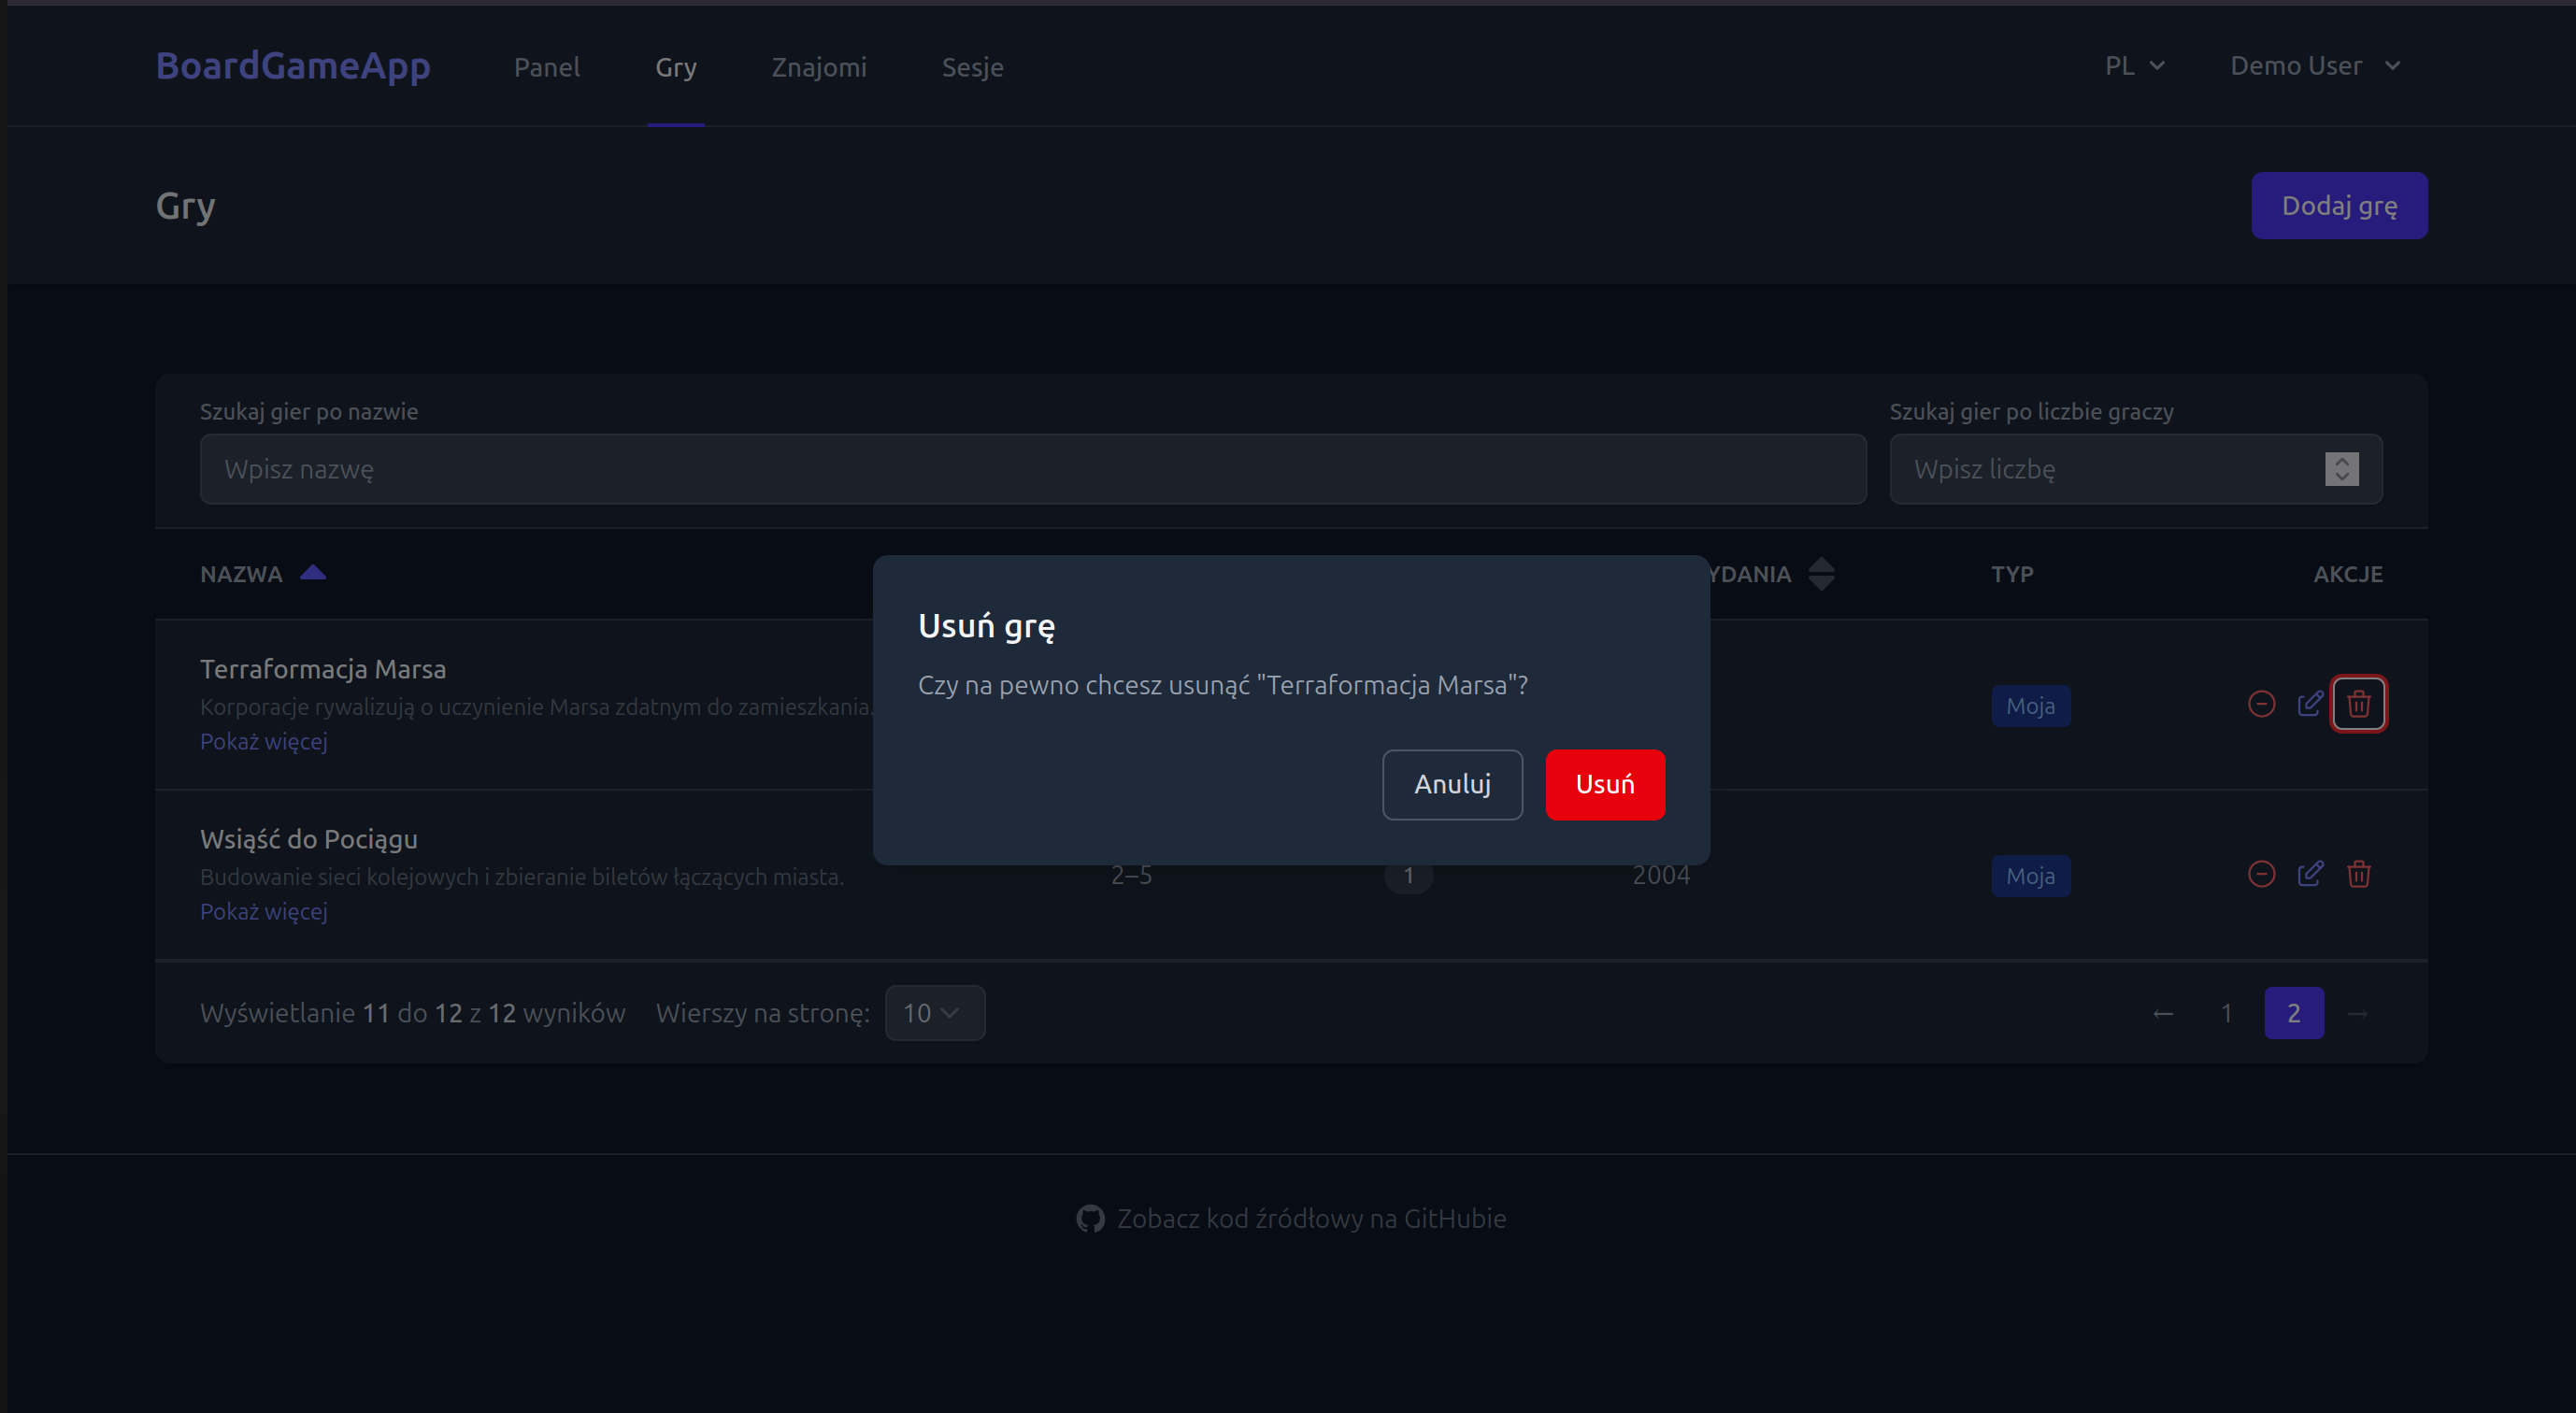
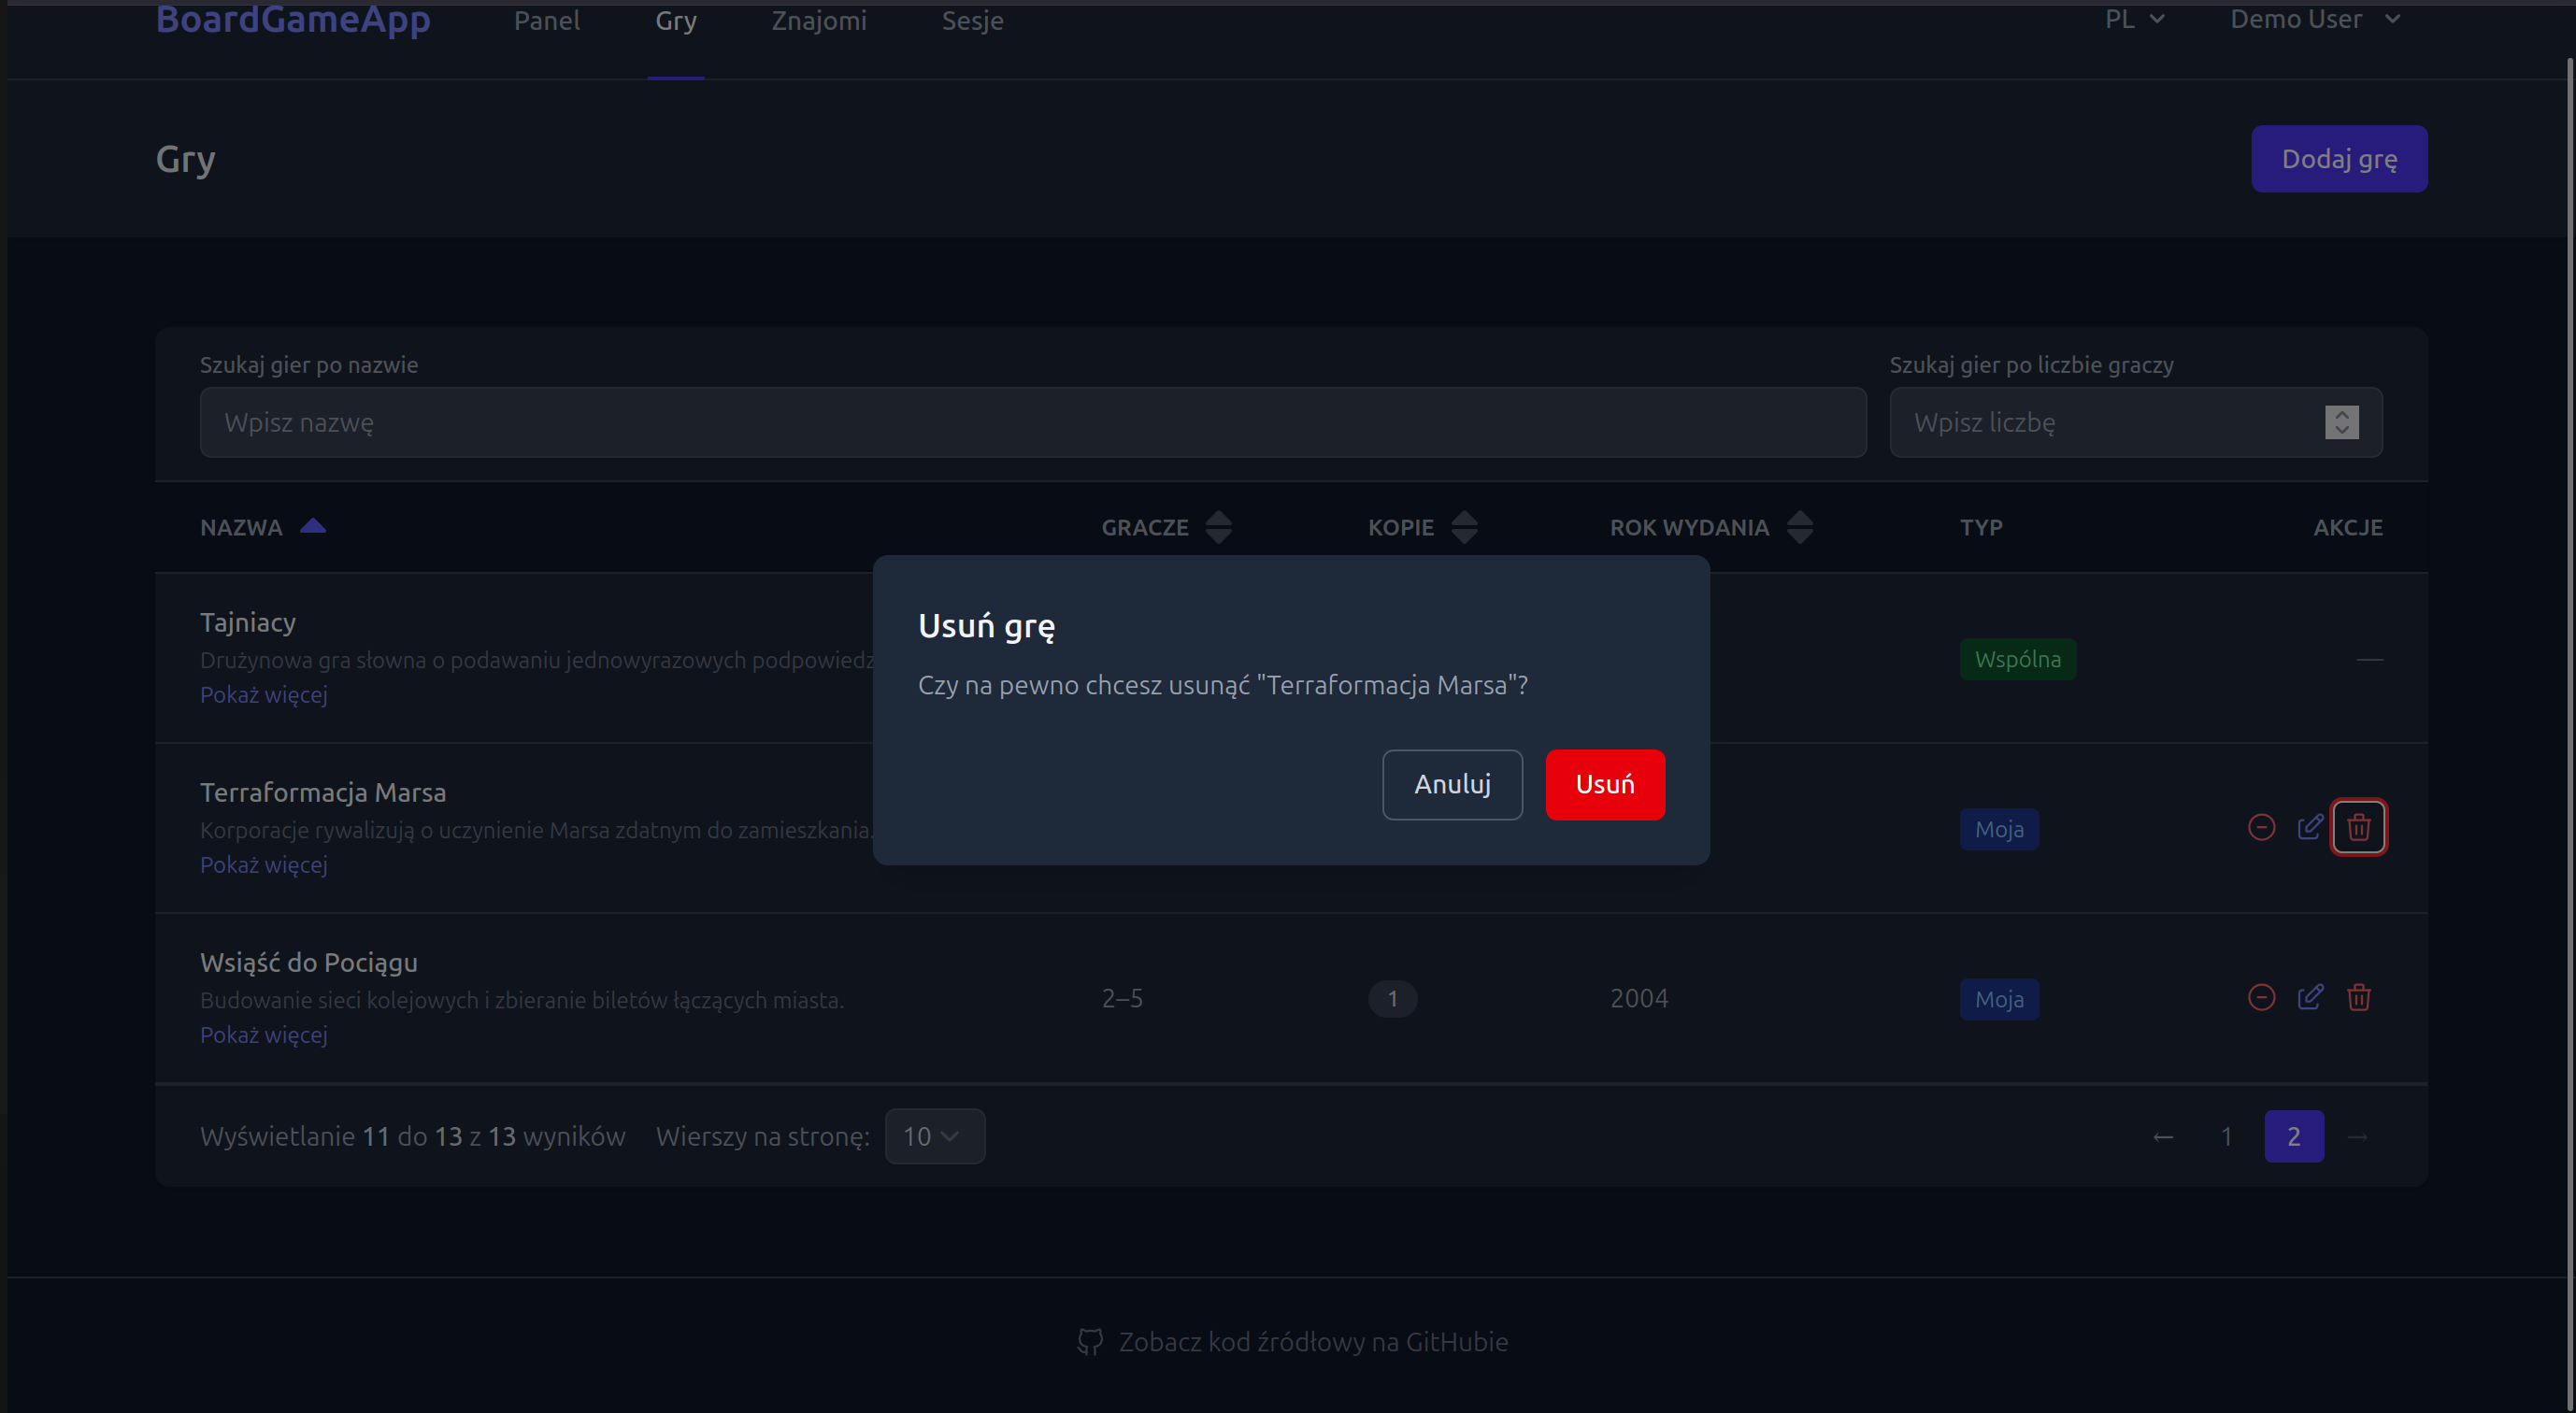
-Added BGG throttle, forbidden actions now pop up

diff --git a/resources/js/Layouts/AuthenticatedLayout.vue b/resources/js/Layouts/AuthenticatedLayout.vue
@@ -1,18 +1,35 @@
 <script setup>
-import { ref } from 'vue'
+import { ref, watch } from 'vue'
 import ApplicationLogo from '@/Components/ApplicationLogo.vue'
 import Dropdown from '@/Components/Dropdown.vue'
 import DropdownLink from '@/Components/DropdownLink.vue'
 import LanguageSwitcher from '@/Components/LanguageSwitcher.vue'
 import NavLink from '@/Components/NavLink.vue'
 import ResponsiveNavLink from '@/Components/ResponsiveNavLink.vue'
-import { Link } from '@inertiajs/vue3'
+import { Link, usePage } from '@inertiajs/vue3'
 import { useTranslate } from '@/composables/useTranslate'
+import { useConfirmDialog } from '@/composables/useConfirmDialog'
 import ConfirmDialog from '@/Components/ConfirmDialog.vue'
 import SiteFooter from '@/Components/SiteFooter.vue'
 
 const { t } = useTranslate()
 const showingNavigationDropdown = ref(false)
+
+const page = usePage()
+const { alert } = useConfirmDialog()
+
+watch(
+  () => page.props.errors?.demo,
+  (message) => {
+    if (message) {
+      alert({
+        title: t('common.demoRestrictedTitle'),
+        message,
+        confirmLabel: t('common.ok'),
+      })
+    }
+  },
+)
 </script>
 
 <template>

diff --git a/resources/js/composables/useConfirmDialog.ts b/resources/js/composables/useConfirmDialog.ts
@@ -4,7 +4,8 @@ export interface ConfirmDialogOptions {
   title: string
   message: string
   confirmLabel: string
-  cancelLabel: string
+  /** Omit to render an alert-style dialog with only a confirm/OK button. */
+  cancelLabel?: string
   variant?: 'danger' | 'neutral'
 }
 
@@ -21,12 +22,20 @@ let resolveFn: ((value: boolean) => void) | null = null
 
 export function useConfirmDialog() {
   function confirm(opts: ConfirmDialogOptions): Promise<boolean> {
-    options.value = { variant: 'neutral', ...opts }
+    options.value = { variant: 'neutral', cancelLabel: 'Cancel', ...opts }
     isOpen.value = true
 
     return new Promise<boolean>((resolve) => {
       resolveFn = resolve
     })
+  }
+
+  /** Alert-style dialog: single confirm/OK button, no cancel option. */
+  function alert({
+    confirmLabel = 'OK',
+    ...opts
+  }: Omit<ConfirmDialogOptions, 'cancelLabel' | 'confirmLabel'> & { confirmLabel?: string }): Promise<void> {
+    return confirm({ ...opts, confirmLabel, cancelLabel: undefined }).then(() => undefined)
   }
 
   function onConfirm(): void {
@@ -41,5 +50,5 @@ export function useConfirmDialog() {
     resolveFn = null
   }
 
-  return { isOpen, options, confirm, onConfirm, onCancel }
+  return { isOpen, options, confirm, alert, onConfirm, onCancel }
 }

diff --git a/eslint.config.js b/eslint.config.js
@@ -3,6 +3,6 @@ import blumilkTypescript from '@blumilksoftware/eslint-config/typescript-config.
 export default [
   ...blumilkTypescript,
   {
-    ignores: ['resources/js/ziggy.js', 'resources/js/Types/ziggy.d.ts'],
+    ignores: ['resources/js/Types/ziggy.d.ts', 'resources/js/Types/ziggy-routes.d.ts'],
   },
 ]

diff --git a/resources/js/ziggy.ts b/resources/js/ziggy.ts
@@ -1,4 +1,4 @@
-import { ZiggyVue } from '../../vendor/tightenco/ziggy'
+import type { ZiggyVue } from '../../vendor/tightenco/ziggy'
 
 type ZiggyConfig = NonNullable<Parameters<typeof ZiggyVue.install>[1]>
 

diff --git a/resources/js/Components/ConfirmDialog.vue b/resources/js/Components/ConfirmDialog.vue
@@ -46,6 +46,7 @@ const { isOpen, options, onConfirm, onCancel } = useConfirmDialog()
 
             <div class="mt-6 flex flex-col-reverse gap-3 sm:flex-row sm:justify-end">
               <button
+                v-if="options.cancelLabel"
                 type="button"
                 class="cursor-pointer rounded-md border border-gray-300 px-4 py-2 text-sm font-medium text-gray-700 transition-colors hover:bg-gray-50 focus:outline-none focus:ring-2 focus:ring-gray-400 focus:ring-offset-1 dark:border-gray-600 dark:text-gray-300 dark:hover:bg-gray-700"
                 @click="onCancel"

diff --git a/app/Services/BoardGameGeekService.php b/app/Services/BoardGameGeekService.php
@@ -7,6 +7,7 @@ namespace App\Services;
 use App\Models\Game;
 use Illuminate\Http\Client\ConnectionException;
 use Illuminate\Http\Client\RequestException;
+use Illuminate\Support\Facades\Cache;
 use Illuminate\Support\Facades\Http;
 use Illuminate\Support\Facades\Log;
 use InvalidArgumentException;
@@ -52,30 +53,34 @@ class BoardGameGeekService
 
     private function fetchGameData(int $bggId): array
     {
-        try {
-            $response = Http::withToken($this->token)
-                ->timeout(15)
-                ->get("{$this->baseUrl}/thing", [
-                    "id" => $bggId,
-                    "type" => "boardgame",
+        // Game metadata on BGG almost never changes, so cache it to avoid
+        // hammering their API with repeated lookups of the same game.
+        return Cache::remember("bgg-game-{$bggId}", now()->addDay(), function () use ($bggId): array {
+            try {
+                $response = Http::withToken($this->token)
+                    ->timeout(15)
+                    ->get("{$this->baseUrl}/thing", [
+                        "id" => $bggId,
+                        "type" => "boardgame",
+                    ]);
+
+                $response->throw();
+            } catch (ConnectionException $exception) {
+                Log::error("BGG API connection failed", ["bgg_id" => $bggId, "error" => $exception->getMessage()]);
+
+                throw new RuntimeException("Could not connect to BoardGameGeek API. Please try again later.");
+            } catch (RequestException $exception) {
+                Log::error("BGG API request failed", [
+                    "bgg_id" => $bggId,
+                    "status" => $exception->response->status(),
+                    "body" => $exception->response->body(),
                 ]);
 
-            $response->throw();
-        } catch (ConnectionException $exception) {
-            Log::error("BGG API connection failed", ["bgg_id" => $bggId, "error" => $exception->getMessage()]);
+                throw new RuntimeException("BoardGameGeek API returned an error for game ID {$bggId}.");
+            }
 
-            throw new RuntimeException("Could not connect to BoardGameGeek API. Please try again later.");
-        } catch (RequestException $exception) {
-            Log::error("BGG API request failed", [
-                "bgg_id" => $bggId,
-                "status" => $exception->response->status(),
-                "body" => $exception->response->body(),
-            ]);
-
-            throw new RuntimeException("BoardGameGeek API returned an error for game ID {$bggId}.");
-        }
-
-        return $this->parseXmlResponse($response->body(), $bggId);
+            return $this->parseXmlResponse($response->body(), $bggId);
+        });
     }
 
     private function parseXmlResponse(string $xmlBody, int $bggId): array

diff --git a/app/Http/Controllers/ProfileController.php b/app/Http/Controllers/ProfileController.php
@@ -28,17 +28,23 @@ class ProfileController extends Controller
     public function update(ProfileUpdateRequest $request, UpdateProfileAction $action): RedirectResponse
     {
         $validated = $request->validated();
+        $user = $request->user();
 
-        if ($validated["email"] !== $request->user()->email) {
+        $changedFields = array_keys(array_filter([
+            "name" => $validated["name"] !== $user->name,
+            "email" => $validated["email"] !== $user->email,
+        ]));
+
+        if ($changedFields !== []) {
             $this->authorizeOrFail(
-                "updateEmail",
-                $request->user(),
-                "email",
-                "This is a shared public demo account, so its email address can't be changed.",
+                "updateProfile",
+                $user,
+                [...$changedFields, "demo"],
+                __("account_limits.profile_locked"),
             );
         }
 
-        $action->execute($request->user(), $validated);
+        $action->execute($user, $validated);
 
         return Redirect::route("profile.edit");
     }
@@ -48,8 +54,8 @@ class ProfileController extends Controller
         $this->authorizeOrFail(
             "delete",
             $request->user(),
-            "password",
-            "This is a shared public demo account and can't be deleted.",
+            ["password", "demo"],
+            __("account_limits.account_locked"),
         );
 
         $action->execute($request->user());

diff --git a/app/Support/AccountLimits.php b/app/Support/AccountLimits.php
@@ -1,0 +1,18 @@
+<?php
+
+declare(strict_types=1);
+
+namespace App\Support;
+
+/**
+ * Generous per-account ceilings that apply to every user, not just the public
+ * demo account (see DemoAccount for its much stricter limits). These exist so
+ * a malicious signup can't do the same database-bloat abuse the demo guard
+ * prevents, just one registration step removed.
+ */
+class AccountLimits
+{
+    public const MAX_GAMES = 500;
+    public const MAX_FRIENDS = 300;
+    public const MAX_SESSIONS = 500;
+}

diff --git a/lang/en/account_limits.php b/lang/en/account_limits.php
@@ -1,0 +1,18 @@
+<?php
+
+declare(strict_types=1);
+
+return [
+    "games_capped_demo" => "This is a shared public demo account, so the collection is capped at :max games to keep the live demo usable for other visitors.",
+    "games_capped" => "You've reached the maximum of :max games allowed per account.",
+
+    "friends_capped_demo" => "This is a shared public demo account, so the friends list is capped at :max to keep the live demo usable for other visitors.",
+    "friends_capped" => "You've reached the maximum of :max friends allowed per account.",
+
+    "sessions_capped_demo" => "This is a shared public demo account, so sessions are capped at :max to keep the live demo usable for other visitors.",
+    "sessions_capped" => "You've reached the maximum of :max sessions allowed per account.",
+
+    "profile_locked" => "This is a shared public demo account, so its name and email address can't be changed.",
+    "password_locked" => "This is a shared public demo account, so its password can't be changed.",
+    "account_locked" => "This is a shared public demo account and can't be deleted.",
+];

diff --git a/lang/pl/account_limits.php b/lang/pl/account_limits.php
@@ -1,0 +1,18 @@
+<?php
+
+declare(strict_types=1);
+
+return [
+    "games_capped_demo" => "To współdzielone, publiczne konto demonstracyjne, dlatego kolekcja jest ograniczona do :max gier, aby demo pozostało użyteczne dla innych odwiedzających.",
+    "games_capped" => "Osiągnięto maksymalną liczbę :max gier dozwoloną dla konta.",
+
+    "friends_capped_demo" => "To współdzielone, publiczne konto demonstracyjne, dlatego lista znajomych jest ograniczona do :max, aby demo pozostało użyteczne dla innych odwiedzających.",
+    "friends_capped" => "Osiągnięto maksymalną liczbę :max znajomych dozwoloną dla konta.",
+
+    "sessions_capped_demo" => "To współdzielone, publiczne konto demonstracyjne, dlatego sesje są ograniczone do :max, aby demo pozostało użyteczne dla innych odwiedzających.",
+    "sessions_capped" => "Osiągnięto maksymalną liczbę :max sesji dozwoloną dla konta.",
+
+    "profile_locked" => "To współdzielone, publiczne konto demonstracyjne, dlatego nie można zmienić jego nazwy ani adresu e-mail.",
+    "password_locked" => "To współdzielone, publiczne konto demonstracyjne, dlatego nie można zmienić jego hasła.",
+    "account_locked" => "To współdzielone, publiczne konto demonstracyjne i nie można go usunąć.",
+];

diff --git a/app/Http/Controllers/Controller.php b/app/Http/Controllers/Controller.php
@@ -12,14 +12,12 @@ abstract class Controller
 {
     use AuthorizesRequests;
 
-    /**
-     * Like authorize(), but reports a denial as a field-scoped validation error
-     * instead of a 403 page, so it renders inline in the form that triggered it.
-     */
-    protected function authorizeOrFail(string $ability, mixed $target, string $field, string $message): void
+    protected function authorizeOrFail(string $ability, mixed $target, string|array $fields, string $message): void
     {
         if (Gate::denies($ability, $target)) {
-            throw ValidationException::withMessages([$field => $message]);
+            $fields = is_array($fields) ? $fields : [$fields];
+
+            throw ValidationException::withMessages(array_fill_keys($fields, $message));
         }
     }
 }

diff --git a/app/Http/Controllers/FriendController.php b/app/Http/Controllers/FriendController.php
@@ -10,6 +10,7 @@ use App\Http\Requests\CheckDuplicateFriendRequest;
 use App\Http\Requests\FriendRequest;
 use App\Models\Friend;
 use App\Services\FriendService;
+use App\Support\AccountLimits;
 use App\Support\DemoAccount;
 use App\Traits\BuildsPaginationMeta;
 use Illuminate\Http\JsonResponse;
@@ -60,11 +61,15 @@ class FriendController extends Controller
 
     public function store(FriendRequest $request, CreateFriendAction $action): RedirectResponse
     {
+        $isDemo = DemoAccount::isDemo($request->user());
+
         $this->authorizeOrFail(
             "create",
             Friend::class,
-            "first_name",
-            "This is a shared public demo account, so the friends list is capped at " . DemoAccount::MAX_FRIENDS . " to keep the live demo usable for other visitors.",
+            $isDemo ? ["first_name", "demo"] : "first_name",
+            $isDemo
+                ? __("account_limits.friends_capped_demo", ["max" => DemoAccount::MAX_FRIENDS])
+                : __("account_limits.friends_capped", ["max" => AccountLimits::MAX_FRIENDS]),
         );
 
         $action->execute($request->user(), $request->validated());